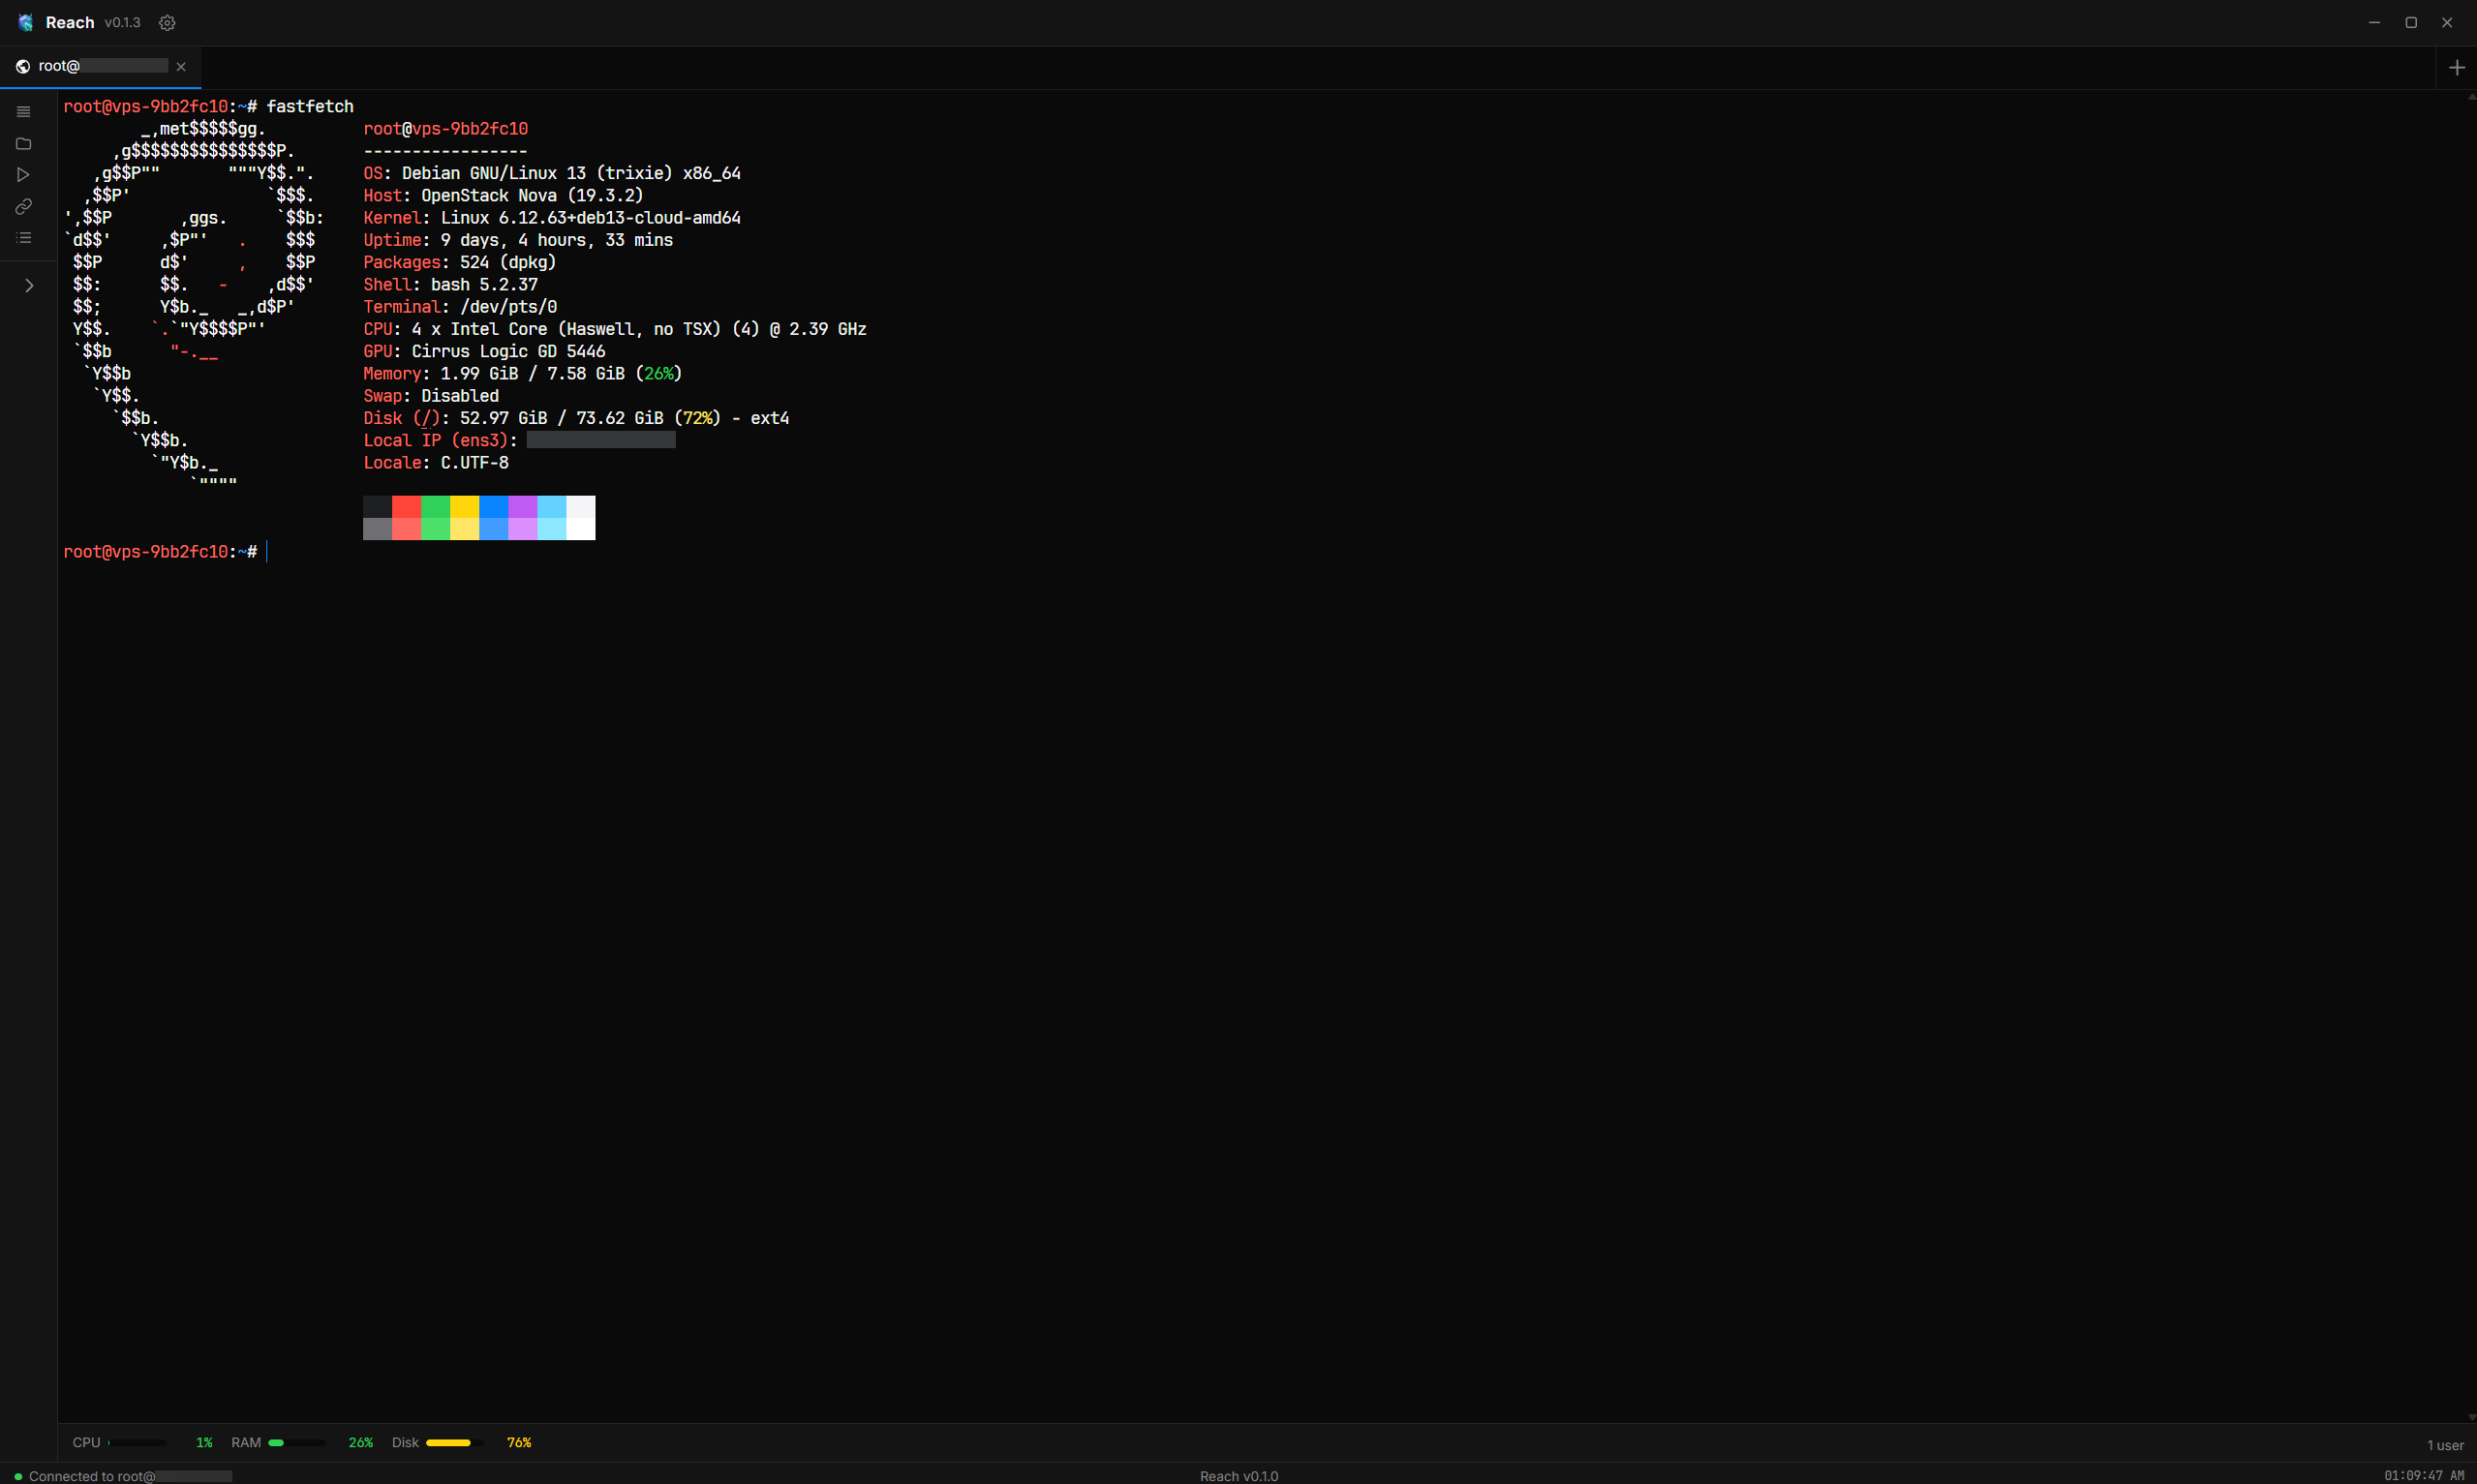
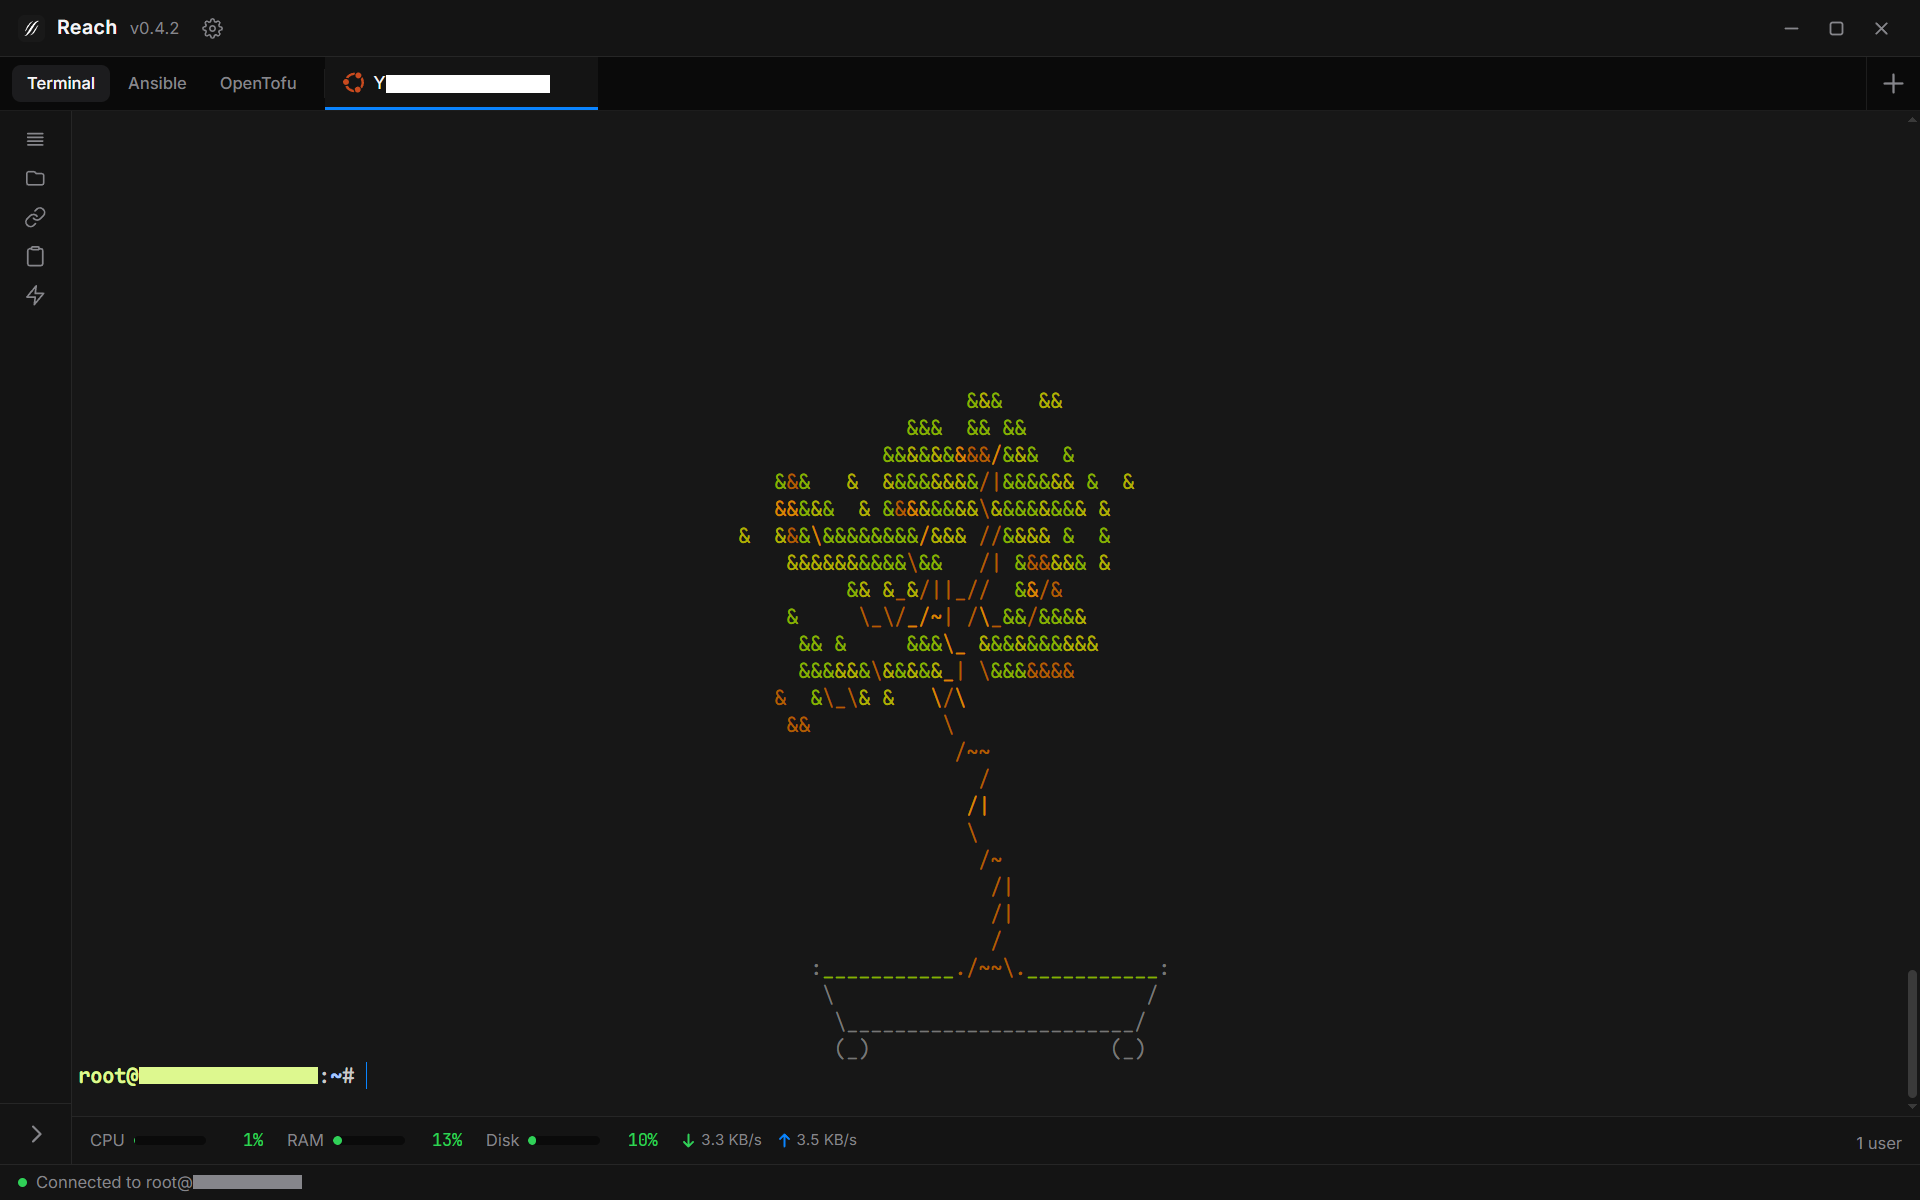
Update README for personal fork with zh-CN translation and feature list

diff --git a/README.zh-CN.md b/README.zh-CN.md
@@ -1,0 +1,219 @@
+<p align="center">
+  <img src="src-tauri/icons/128x128.png" alt="Reach" width="80" />
+</p>
+
+<h1 align="center">Reach</h1>
+
+<p align="center">
+  一个现代、跨平台的 SSH 客户端和远程管理工具。<br>
+  为厌倦了 PuTTY、想要一个开箱即用的工具的工程师而打造。<br>
+  <em>这是 <a href="https://github.com/alexandrosnt/Reach">Reach</a> 的个人 fork。见下方<a href="#与原项目的区别">与原项目的区别</a>。</em>
+</p>
+
+<p align="center">
+  <img src="https://img.shields.io/github/v/release/CPTProgrammer/ReachQ?style=flat-square&color=0a84ff" alt="Release" />
+  <img src="https://img.shields.io/badge/platforms-Windows%20%7C%20macOS%20%7C%20Linux%20%7C%20Android-333?style=flat-square" alt="Platforms" />
+  <img src="https://img.shields.io/github/license/CPTProgrammer/ReachQ?style=flat-square?cacheSeconds=60" alt="License" />
+</p>
+
+<p align="center">
+  &lt; <a href="./README.md">English</a> · <a href="./README.zh-CN.md">简体中文</a> &gt;
+</p>
+
+<p align="center">
+  <a href="https://alexandrosnt.github.io/Reach/"><strong>文档</strong></a> · <a href="https://github.com/CPTProgrammer/ReachQ/issues">报告 Bug</a>
+</p>
+
+---
+
+<p align="center">
+  <img src="assets/preview.png" alt="Reach Preview" width="900" />
+</p>
+
+---
+
+## 为什么选择 Reach？
+
+大多数 SSH 工具用起来像是 2005 年的产物，因为它们确实是。MobaXterm 仅限 Windows 且臃肿，PuTTY 几十年没变过，Termius 连基础功能都要订阅。
+
+Reach 是从零开始打造的 SSH 客户端：原生 UI，真正的加密，以及你每天都愿意用的工作流。没有 Electron，没有月费。只是一个快速、清爽、到处都能跑的工具。
+
+## 与原项目的区别
+
+>  _除 UI 外的绝大多数代码由AI编写+人工检查_
+
+### 终端
+
+- [x] **主题** — 允许配置终端主题，并新增亮色主题等
+- [x] **字体** —
+  - 禁用了 Ctrl+滚轮 缩放字体大小，改为设置窗口内配置
+  - 禁用了谷歌字体加载，并允许配置系统字体
+  - 字体预览新增中文样本，以检查字体全角半角对齐情况
+- [x] **文本选择、复制与粘贴** —
+  - 修复拖拽选择文本时意外触发复制的 bug，且终端选中文本从点击复制改为右键复制
+  - 使用 Tauri Clipboard Manager 插件来复制粘贴，不会有 WebView 弹窗
+  - 粘贴多行内容时弹出确认对话框，防止意外执行多行命令
+- [x] **SSH** —
+  - 开启 SSH 会话时后端先缓存数据，等前端准备好再一并发送，防止 MOTD 被吞掉
+  - 允许配置是否开启自动着色 Shell，优化了注入命令和方式，能处理更多边界条件
+  - *开发：重构了 SSH 后端逻辑，增加代码复用，减少重复代码*
+- [x] 修复终端在相关界面设置切换后刷新缓冲区的问题
+
+### 界面
+
+- [x] 新增中文语言，并补充了更全的界面 i18n
+- [x] 优化了一些界面细节
+- [x] 预加载界面不再强制多显示 800ms，并且可以在预加载界面拖拽窗口
+- [x] *开发：重构部分组件，增加代码复用，减少重复代码*
+
+### AI
+
+- [x] 支持自定义 Base URL
+- [ ] 支持更多 AI 设置（如是否开启推理、推理强度等）
+- [ ] 修复 Windows 下读取终端输出问题
+- [ ] 将 LLM 运行命令的方式换为 Tool Call，增加更多可用工具
+- [ ] 更新 AI 界面，以支持流式输出、完整 Markdown、更优的交互体验等
+
+### 其他
+
+- [x] 暂时禁用了自动更新
+
+## 功能一览
+
+### 核心功能
+
+- **SSH 终端** · 全交互式 Shell，WebGL 渲染。支持标签页、分屏、可正确响应窗口缩放。
+- **SFTP 文件浏览器** · 浏览远程文件系统，支持拖拽传输、在线编辑。操作体验如同本地文件管理器。
+- **会话管理** · 用文件夹和标签管理连接。凭据加密存储，不会以明文写入配置文件。
+- **跳板机 (ProxyJump)** · 通过堡垒服务器多跳 SSH 连接。可直接从 `~/.ssh/config` 导入主机。
+
+### 效率工具
+
+- **端口转发** · 本地、远程和动态 SOCKS 转发。配置一次，随会话保存。
+- **批量执行** · 同时向多台服务器广播相同命令，便于集群维护。
+- **系统监控** · 无需安装额外工具，实时查看已连接主机的 CPU、内存和磁盘状态。
+
+### 基础设施即代码
+
+- **Ansible** · 管理 Playbook、Inventory、Role 和 Collection。运行 Playbook 和临时命令，支持流式输出。集成 ansible-vault 加解密功能。Windows 下自动通过 WSL 运行。
+- **OpenTofu** · 执行 plan、apply 和 destroy 操作。浏览状态文件，管理 Provider 和 Module。完整的编辑器工作区，支持流式命令输出。
+
+### 其他功能
+
+- **串口控制台** · 通过 COM/TTY 与路由器、交换机和嵌入式设备通信。
+- **AI 助手** · 可选的 AI 集成，提供命令建议和故障排除（需自备 API Key）。
+- **加密保险库** · 将密钥、凭据和 SSH Key 存储在加密保险库中，支持云端同步。
+- **Lua 插件** · 用沙箱化的 Lua 脚本扩展 Reach。通过 Host API 访问 SSH、存储和 UI Hook。
+- **自动更新** · 应用在启动时及运行期间定期检查更新，无需手动下载。
+
+## 技术栈
+
+Reach 是一个 [Tauri v2](https://v2.tauri.app) 应用，后端使用 Rust，前端使用 Svelte 5。整个 SSH 栈通过 [russh](https://github.com/warp-tech/russh) 在 Rust 中原生运行，不依赖 OpenSSH。UI 渲染在系统 WebView 中（而非内置 Chromium），因此最终二进制体积小、内存占用低。
+
+| | |
+|---|---|
+| **后端** | Rust, Tokio, russh |
+| **前端** | Svelte 5, SvelteKit, TypeScript |
+| **样式** | Tailwind CSS v4 |
+| **终端** | xterm.js 配合 WebGL 插件 |
+| **加密** | XChaCha20-Poly1305, Argon2id, X25519 |
+| **平台** | Windows, macOS, Linux, Android |
+
+## 快速开始
+
+此 fork 暂无预编译的发布版本。如需使用，请从源码构建。
+
+## 从源码构建
+
+你需要安装 [Rust](https://rustup.rs)、[Node.js 22+](https://nodejs.org)，以及对应操作系统的 [Tauri 前置依赖](https://v2.tauri.app/start/prerequisites/)。
+
+```bash
+git clone https://github.com/CPTProgrammer/ReachQ.git
+cd Reach
+npm install
+npm run tauri dev
+```
+
+生产环境构建：
+
+```bash
+npm run tauri build
+```
+
+## 项目结构
+
+```mermaid
+graph LR
+  root["🗂 Reach"]
+
+  root --> src["📁 src · Svelte 前端"]
+  root --> tauri["📁 src-tauri · Rust 后端"]
+  root --> gh["📁 .github/workflows · CI/CD"]
+
+  src --> routes["📄 routes"]
+  src --> lib["📁 lib"]
+
+  lib --> components["📁 components"]
+  lib --> state["📄 state · 响应式 .svelte.ts 模块"]
+  lib --> ipc["📄 ipc · Tauri 命令封装"]
+  lib --> i18n["📄 i18n · 国际化"]
+
+  components --> layout["📄 layout · AppShell, TitleBar, Sidebar"]
+  components --> terminal["📄 terminal · SSH 终端、批量执行"]
+  components --> explorer["📄 explorer · SFTP 文件浏览器"]
+  components --> sessions["📄 sessions · 连接管理"]
+  components --> tunnel["📄 tunnel · 端口转发界面"]
+  components --> vault["📄 vault · 加密密钥"]
+  components --> ai["📄 ai · AI 助手面板"]
+  components --> ansible["📄 ansible · Ansible 自动化"]
+  components --> tofu["📄 tofu · OpenTofu IaC"]
+  components --> settings["📄 settings · 应用设置"]
+  components --> shared["📄 shared · Button, Modal, Toast"]
+
+  tauri --> taurisrc["📁 src"]
+  taurisrc --> ssh["📄 ssh · SSH 客户端 (russh)"]
+  taurisrc --> sftp["📄 sftp · 文件传输"]
+  taurisrc --> tvault["📄 vault · 加密存储、密码学"]
+  taurisrc --> ttunnel["📄 tunnel · 端口转发引擎"]
+  taurisrc --> pty["📄 pty · 本地终端 (桌面端)"]
+  taurisrc --> serial["📄 serial · 串口 (桌面端)"]
+  taurisrc --> monitoring["📄 monitoring · 远程系统状态"]
+  taurisrc --> ansible["📄 ansible · Ansible 项目与运行器"]
+  taurisrc --> tofu["📄 tofu · OpenTofu 项目与运行器"]
+  taurisrc --> tipc["📄 ipc · Tauri 命令处理"]
+```
+
+## 更新日志
+
+完整发布历史见 [CHANGELOG.md](CHANGELOG.md)。
+
+## 贡献者
+
+感谢以下 Reach 贡献者：
+
+<table>
+  <tr>
+    <td align="center">
+      <a href="https://github.com/ddwnbot">
+        <img src="https://github.com/ddwnbot.png" width="60" style="border-radius: 50%;" alt="ddwnbot" /><br />
+        <sub><b>ddwnbot</b></sub>
+      </a><br />
+      <sub>SSH 主机密钥验证 (TOFU)</sub>
+    </td>
+    <td align="center">
+      <a href="https://github.com/alien-ye">
+        <img src="https://github.com/alien-ye.png" width="60" style="border-radius: 50%;" alt="alien-ye" /><br />
+        <sub><b>alien-ye</b></sub>
+      </a><br />
+      <sub>终端点击选中并复制</sub>
+    </td>
+  </tr>
+</table>
+
+## 参与贡献
+
+欢迎贡献。Bug 报告、功能建议和 Pull Request 都很有帮助。如果你想做较大的功能改动，请先开 Issue 讨论方案。
+
+## 许可证
+### 基于 MIT 许可证授权
+本项目是自由软件：你可以根据 MIT 许可证的条款，将其用于个人、学术或商业目的，自由使用、修改和再分发。完整条款见 [LICENSE](LICENSE) 文件。

diff --git a/README.md b/README.md
@@ -6,17 +6,22 @@
 
 <p align="center">
   A modern, cross-platform SSH client and remote management tool.<br>
-  Built for engineers who got tired of PuTTY and wanted something that just works.
+  Built for engineers who got tired of PuTTY and wanted something that just works.<br>
+  <em>This is a personal fork of <a href="https://github.com/alexandrosnt/Reach">Reach</a>. See <a href="#differences-from-upstream">differences from upstream</a> below.</em>
 </p>
 
 <p align="center">
-  <img src="https://img.shields.io/github/v/release/alexandrosnt/Reach?style=flat-square&color=0a84ff" alt="Release" />
+  <img src="https://img.shields.io/github/v/release/CPTProgrammer/ReachQ?style=flat-square&color=0a84ff" alt="Release" />
   <img src="https://img.shields.io/badge/platforms-Windows%20%7C%20macOS%20%7C%20Linux%20%7C%20Android-333?style=flat-square" alt="Platforms" />
-  <img src="https://img.shields.io/github/license/alexandrosnt/Reach?style=flat-square?cacheSeconds=60" alt="License" />
+  <img src="https://img.shields.io/github/license/CPTProgrammer/ReachQ?style=flat-square?cacheSeconds=60" alt="License" />
 </p>
 
 <p align="center">
-  <a href="https://alexandrosnt.github.io/Reach/"><strong>Documentation</strong></a> · <a href="https://github.com/alexandrosnt/Reach/releases">Download</a> · <a href="https://github.com/alexandrosnt/Reach/issues">Report a Bug</a>
+  &lt; <a href="./README.md">English</a> · <a href="./README.zh-CN.md">简体中文</a> &gt;
+</p>
+
+<p align="center">
+  <a href="https://alexandrosnt.github.io/Reach/"><strong>Documentation</strong></a> · <a href="https://github.com/CPTProgrammer/ReachQ/issues">Report a Bug</a>
 </p>
 
 ---
@@ -32,6 +37,46 @@
 Most SSH tools feel like they were designed in 2005, because they were. MobaXterm is Windows-only and bloated, PuTTY hasn't changed in decades, and Termius wants a subscription for basic features.
 
 Reach is what happens when you build an SSH client from scratch with a native UI, proper encryption, and the kind of workflow you'd actually want to use every day. No Electron. No monthly fee. Just a fast, clean tool that runs everywhere.
+
+## Differences from upstream
+
+> _Most code (excluding UI) was generated by AI with human review._
+
+### Terminal
+
+- [x] **Themes** — Configurable terminal themes, including new light themes and more.
+- [x] **Fonts** —
+  - Disabled Ctrl+Scroll font scaling. Font size is now configurable in settings.
+  - Disabled Google Fonts loading. System fonts are now configurable.
+  - Font preview now includes CJK samples for checking fullwidth/halfwidth alignment.
+- [x] **Selection, copy & paste** —
+  - Fixed drag-select accidentally triggering copy. Terminal selection now copies on right-click instead of click.
+  - Clipboard operations use Tauri Clipboard Manager plugin (no WebView popup).
+  - Multi-line paste shows confirmation dialog to prevent accidental command execution.
+- [x] **SSH** —
+  - SSH backend buffers output until frontend is ready, preventing MOTD loss.
+  - Configurable auto-shell-color with improved injection to handle more edge cases.
+  - *Dev: Refactored SSH backend for better code reuse and reduced duplication.*
+- [x] Fixed terminal buffer refresh issues when switching between related settings panels.
+
+### UI
+
+- [x] Added Chinese language support with comprehensive UI i18n.
+- [x] Various UI refinements.
+- [x] Splash screen no longer forces extra 800ms delay. Window can be dragged during splash.
+- [x] *Dev: Refactored components for better code reuse and reduced duplication.*
+
+### AI
+
+- [x] Custom Base URL support.
+- [ ] Support more AI settings (e.g. reasoning toggle, reasoning effort, etc.).
+- [ ] Fix terminal output reading on Windows.
+- [ ] Replace LLM command execution with tool calling, add more available tools.
+- [ ] Update AI UI to support streaming output, full Markdown, better interaction experience, etc.
+
+### Misc
+
+- [x] Temporarily disabled auto-updates.
 
 ## What's inside
 
@@ -76,14 +121,14 @@ Reach is a [Tauri v2](https://v2.tauri.app) app with a Rust backend and Svelte 5
 
 ## Getting started
 
-Grab the latest release from the [Releases page](https://github.com/alexandrosnt/Reach/releases). Installers are available for Windows (NSIS), macOS (.dmg), Linux (.deb, .AppImage, .rpm), and Android (.apk).
+No pre-built releases are available for this fork yet. To use it, build from source.
 
 ## Building from source
 
 You'll need [Rust](https://rustup.rs), [Node.js 22+](https://nodejs.org), and the [Tauri prerequisites](https://v2.tauri.app/start/prerequisites/) for your OS.
 
 ```bash
-git clone https://github.com/alexandrosnt/Reach.git
+git clone https://github.com/CPTProgrammer/ReachQ.git
 cd Reach
 npm install
 npm run tauri dev